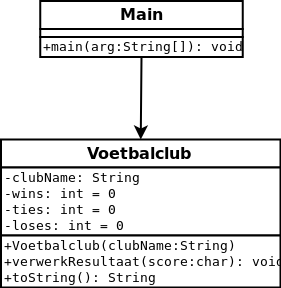
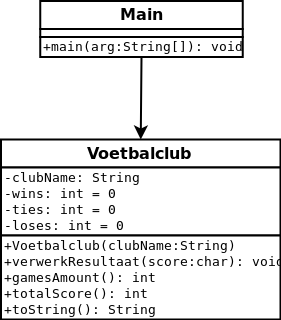
Fix w1.p2

diff --git a/practicums/w1/p2/src/Voetbalclub.java b/practicums/w1/p2/src/Voetbalclub.java
@@ -48,13 +48,27 @@ public class Voetbalclub {
   };
 
   /**
+   * Returns the amount of games played.
+   * @return The amount of games.
+   */
+  public int gamesAmount() {
+    return this.wins + this.ties + this.loses;
+  };
+
+  /**
+   * Returns the total score of the club.
+   * @return The score.
+   */
+  public int totalScore() {
+    return (this.wins * 3) + this.ties;
+  };
+
+  /**
    * Returns a formatted row for display.
    * @return A formatted string.
    */
   public String toString() {
-    int score = (this.wins * 3) + this.ties;
-    int games = this.wins + this.ties + this.loses;
-    return this.clubName + "\t" + games + "\t\t" + this.wins + "\t"
-      + this.ties + "\t" + this.loses + "\t\t" + score;
+    return this.clubName + "\t" + this.gamesAmount() + "\t\t" + this.wins + "\t"
+      + this.ties + "\t" + this.loses + "\t\t" + this.totalScore();
   };
 };
